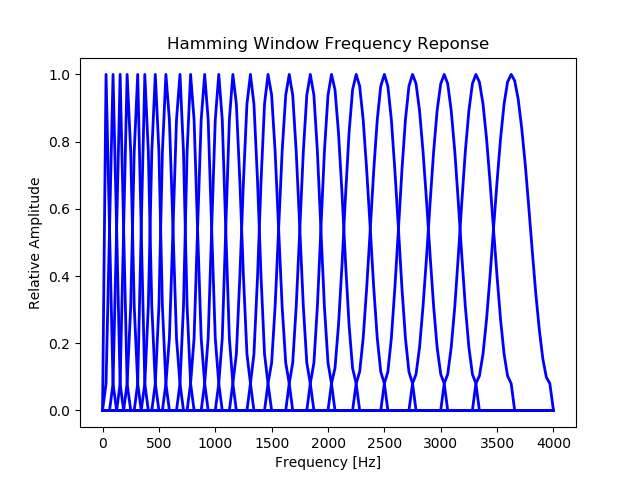
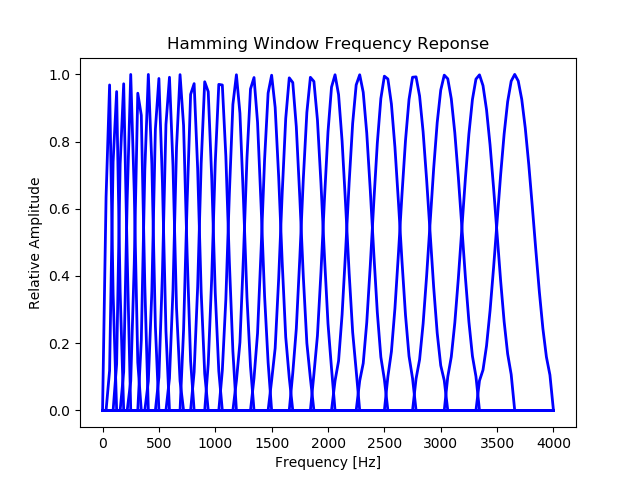
Add MFCC

Changed region(s): [[0.1562, 0.1562, 0.875, 0.875], [0.0625, 0.5625, 0.125, 0.5938]]

diff --git a/Chapter3_OtherTransformDomain/mfcc.py b/Chapter3_OtherTransformDomain/mfcc.py
@@ -1,0 +1,125 @@
+# mfcc function
+# 提取MFCC参数
+
+from Universal import *
+from scipy.signal import *
+import matplotlib.pylab as plt
+import numpy as np
+import math
+import seaborn as sns
+
+
+
+def melbankm(p, n, fs, fl = 0, fh = 0.5, w = 't'):
+	"""
+	再Mel频率上设计平均分布的滤波器
+	:param p: fl和fh之间设计的Mel滤波器的个数
+	:param n: FFT长度
+	:param fs: 采样频率
+	:param fl: 设计滤波器的最低频率（用fs归一化，一般取0）
+	:param fh: 设计滤波器的最高频率（用fs归一化，一般取0.5）
+	:param w: 窗函数，'t'=triangle，'n'=hanning， 'm'=hanmming
+	:return bank: 滤波器频率响应，size = p x (n/2 + 1), 只取正频率部分
+	"""
+	bl = 1125 * np.log(1 + fl * fs / 700)
+	bh = 1125 * np.log(1 + fh * fs / 700) # Hz -> Mel
+	B = bh - bl  						  # Mel Bandwidth
+	y = np.linspace(0, B, p + 2)  		  # uniformed Mel
+	Fb = 700 * (np.exp(y / 1125) - 1)     # Mel -> Hz
+	W = int(n / 2 + 1)
+	df = fs / n
+	# freq = [i * df for i in range(W)]  # sample frequency
+	bank = np.zeros((p, W))
+
+	for m in range(1, p + 1):
+		f0, f1, f2 = Fb[m], Fb[m - 1], Fb[m + 1]	# m, (m-1), (m+1) centeral frequency
+		n0 = f0 / df						# frequency -> sampling point
+		n1 = f1 / df
+		n2 = f2 / df
+		for k in range(W):
+			if (n1 < k <= n0) & (w == 't') :
+				bank[m - 1, k] = (k - n1) / (n0 - n1)
+			elif (n1 < k <= n0) & (w == 'n'):
+				bank[m - 1, k] = 0.5 - 0.5 * np.cos((k - n1) / (n0 - n1) * math.pi)
+			elif (n1 < k <= n0) & (w == 'm'):
+				bank[m - 1, k] = 25 / 46 -  21 / 46 * np.cos((k - n1) / (n0 - n1) * math.pi)
+			elif (n0 < k <= n2) & (w == 't') :
+				bank[m - 1, k]= (n2 - k) / (n2 - n0)
+			elif (n0 < k <= n2) & (w == 'n') :
+				bank[m - 1, k] = 0.5 - 0.5 * np.cos((n2 - k) / (n2 - n0) * math.pi)
+			elif (n0 < k <= n2) & (w == 'm') :
+				bank[m - 1, k] = 25 / 46 -  21 / 46 * np.cos((n2 - k) / (n2 - n0) * math.pi)
+
+	return bank
+def mfcc(x, fs, p, frameSize, inc):
+	"""
+	提取MFCC参数
+	:param x: discrete speech signal
+	:param fs: sampling frequency
+	:param p: filter number
+	:param frameSize: frame length = FFT length
+	:param inc: frame shift
+	:return ccc: mfcc
+	"""
+	bank = melbankm(p, frameSize, fs, 0, 0.5, 't')
+
+	# DCT coefficient
+	dctcoef = np.zeros((12, p))
+	for k in range(12):
+		for n in range(p):
+			dctcoef[k, n] = np.cos((2 * n + 1) * (k + 1) * math.pi / (2 * p))
+
+	# ceps improvement window
+	w = np.zeros((1, 12))
+	for k in range(12):
+		w[:, k] = 1 + 6 * np.sin(math.pi * (k + 1) / 12)
+	w = w / np.max(w)
+
+	# pre-emphasis, enframe
+	xx = lfilter([1, -0.9375], [1], x)
+	xx = Speech.enframe(xx, frameSize, inc)
+	n2 = int(np.fix(frameSize / 2))
+
+	# calculate MFCC
+	m = np.zeros((np.shape(xx)[0], 12))
+	for i in range(np.shape(xx)[0]):
+		y = xx[i, :]
+		s = y.T * np.hamming(frameSize)
+		t = np.abs(np.fft.fft(s)) ** 2
+		c1 = np.dot(dctcoef, np.log(np.dot(bank, t[0: n2 + 1])))
+		c2 = c1 * w
+		m[i, :] = c2
+
+	dtm = np.zeros((np.shape(m)))
+	for i in range(2, (np.shape(m)[0] - 2)):
+		dtm[i, :] = -2 * m[i - 2, :] - m[i - 1, :] + m[i + 1, :] + 2 * m[i + 2, :]
+
+	dtm = dtm / 3
+
+	ccc = np.concatenate((m, dtm), axis=1)
+
+	ccc = ccc[2 : np.shape(m)[0]-2, :]
+
+	return ccc
+
+if __name__ == '__main__':
+	p = 24
+	frameSize = 256
+	inc = 80
+	Speech =  Speech("s1.wav")
+	x, Fs =Speech.audioread(8000)
+	x = x / np.max(np.abs(x))
+
+	c = mfcc(x, Fs, p, frameSize, inc)
+	# plt.figure(figsize=(18, 10))
+	# plt.imshow(c, cmap = 'jet')
+	# plt.xticks(np.arange(0, 24, step=1))
+	# plt.yticks(np.arange(0, 18, step=1))
+	# plt.colorbar()
+	ax = sns.heatmap(c, linewidth=0.5)
+	plt.title('MFCC')
+	plt.savefig('images/mfcc.png')
+	plt.show()
+
+
+

diff --git a/Chapter3_OtherTransformDomain/pr3_3_1.py b/Chapter3_OtherTransformDomain/pr3_3_1.py
@@ -16,34 +16,34 @@ def melbankm(p, n, fs, fl = 0, fh = 0.5, w = 't'):
 	:param w: 窗函数，'t'=triangle，'n'=hanning， 'm'=hanmming
 	:return bank: 滤波器频率响应，size = p x (n/2 + 1), 只取正频率部分
 	"""
-	bl = 1125 * np.log(1 + fl * fs / 700)	# Hz -> Mel
-	bh = 1125 * np.log(1 + fh * fs / 700)
-	B = bh - bl		# Mel Bandwidth
-	y = np.linspace(0, B, p + 2)		# Equally spaced Mel freq
-	Fb = 700 * (np.exp(y / 1125) - 1)		# Mel -> Hz
-	W = int(n/2 + 1)					# positive frequency
-	df = fs / n							# frequency resolution
+	bl = 1125 * np.log(1 + fl * fs / 700)
+	bh = 1125 * np.log(1 + fh * fs / 700) # Hz -> Mel
+	B = bh - bl  						  # Mel Bandwidth
+	y = np.linspace(0, B, p + 2)  		  # uniformed Mel
+	Fb = 700 * (np.exp(y / 1125) - 1)     # Mel -> Hz
+	W = int(n / 2 + 1)
+	df = fs / n
+	# freq = [i * df for i in range(W)]  # sample frequency
 	bank = np.zeros((p, W))
-	for k in range(1, p + 1):
-		f0, f1, f2 = Fb[k], Fb[k - 1], Fb[k + 1]	# m, (m-1), (m+1) centeral frequency
-		n0 = np.floor(f0 / df)						# frequency -> sampling point
-		n1 = np.floor(f1 / df)
-		n2 = np.floor(f2 / df)
-		for i in range(1, W):
-			if (n1 <= i <= n0) & (w == 't') :
-				bank[k - 1, i] = (i - n1) / (n0 - n1)
-			elif (n1 <= i <= n0) & (w == 'n'):
-				bank[k - 1, i] = 0.5 - 0.5 * np.cos((i - n1) / (n0 - n1) * math.pi)
-			elif (n1 <= i <= n0) & (w == 'm'):
-				bank[k - 1, i] = 0.54 - 0.46 * np.cos((i - n1) / (n0 - n1) * math.pi)
-			elif (n0 <= i <= n2) & (w == 't') :
-				bank[k - 1, i]= (n2 - i) / (n2 - n0)
-			elif (n0 <= i <= n2) & (w == 'n') :
-				bank[k - 1, i] = 0.5 - 0.5 * np.cos((n2 - i) / (n2 - n0) * math.pi)
-			elif (n0 <= i <= n2) & (w == 'm') :
-				bank[k - 1, i] = 0.54 - 0.46 * np.cos((n2 - i) / (n2 - n0) * math.pi)
-			elif i > n2:
-				break
+
+	for m in range(1, p + 1):
+		f0, f1, f2 = Fb[m], Fb[m - 1], Fb[m + 1]	# m, (m-1), (m+1) centeral frequency
+		n0 = f0 / df						# frequency -> sampling point
+		n1 = f1 / df
+		n2 = f2 / df
+		for k in range(W):
+			if (n1 < k <= n0) & (w == 't') :
+				bank[m - 1, k] = (k - n1) / (n0 - n1)
+			elif (n1 < k <= n0) & (w == 'n'):
+				bank[m - 1, k] = 0.5 - 0.5 * np.cos((k - n1) / (n0 - n1) * math.pi)
+			elif (n1 < k <= n0) & (w == 'm'):
+				bank[m - 1, k] = 25 / 46 -  21 / 46 * np.cos((k - n1) / (n0 - n1) * math.pi)
+			elif (n0 < k <= n2) & (w == 't') :
+				bank[m - 1, k]= (n2 - k) / (n2 - n0)
+			elif (n0 < k <= n2) & (w == 'n') :
+				bank[m - 1, k] = 0.5 - 0.5 * np.cos((n2 - k) / (n2 - n0) * math.pi)
+			elif (n0 < k <= n2) & (w == 'm') :
+				bank[m - 1, k] = 25 / 46 -  21 / 46 * np.cos((n2 - k) / (n2 - n0) * math.pi)
 
 	return bank
 
@@ -51,13 +51,19 @@ if __name__ == '__main__':
 	p = 24
 	n = 256
 	fs = 8000
-	Ps = int(n / 2 + 1)
 	w = 't'
+	fl = 0
+	fh = 0.5
+	W = int(n / 2 + 1)
+	df = fs / n
+	freq = [i * df for i in range(W)]  # sample frequency
+
 	h1 = melbankm(p, n, fs, 0, 0.5, w)
-	freq = [int(i * fs / n) for i in range(Ps)]
+	h1 = h1 / np.max(h1)
 	plt.figure()
 	for k in range(1, p + 1):
 		plt.plot(freq, h1[k - 1, :],  'r', linewidth = 2)
+	plt.grid()
 	plt.xlabel('Frequency [Hz]')
 	plt.ylabel('Relative Amplitude')
 	plt.title('Triangle Window Frequency Reponse')
@@ -66,7 +72,6 @@ if __name__ == '__main__':
 
 	w = 'n'
 	h2 = melbankm(p, n, fs, 0, 0.5, w)
-	freq = [int(i * fs / n) for i in range(Ps)]
 	plt.figure()
 	for k in range(1, p + 1):
 		plt.plot(freq, h2[k - 1, :],  'k', linewidth = 2)
@@ -78,7 +83,6 @@ if __name__ == '__main__':
 
 	w = 'm'
 	h3 = melbankm(p, n, fs, 0, 0.5, w)
-	freq = [int(i * fs / n) for i in range(Ps)]
 	plt.figure()
 	for k in range(1, p + 1):
 		plt.plot(freq, h3[k - 1, :],  'b', linewidth = 2)

diff --git a/Chapter3_OtherTransformDomain/pr3_1_1.py b/Chapter3_OtherTransformDomain/pr3_1_1.py
@@ -1,5 +1,6 @@
 # 同态滤波解卷
 
+
 import matplotlib.pyplot as plt
 import numpy as np
 
@@ -72,7 +73,7 @@ if __name__ == '__main__':
 	fig = plt.figure(figsize=(15, 18))
 	plt.subplot(2, 1, 1)
 	plt.plot(freq[0 : int(N/2)], lceps[0 : int(N/2)], label = 'Log Spectrum')
-	plt.plot(freq[0 : int(N/2)], ST[0 : int(N/2)], linewidth = 3 ,label = 'Sound Track Impluse Response Spectrum')
+	plt.plot(freq[0 : int(N/2)], ST[0 : int(N/2)], linewidth = 4 ,label = 'Sound Track Impluse Response Spectrum')
 	plt.legend(loc = 'upper right')
 	plt.ylim([-4, 5])
 	plt.grid()

diff --git a/Chapter2_TimeFrequency_ShortTime/pr2_4_1.py b/Chapter2_TimeFrequency_ShortTime/pr2_4_1.py
@@ -1,7 +1,6 @@
 # Spectrogram 语谱图
 
 from Universal import *
-from enframe import enframe
 import matplotlib.pyplot as plt
 import numpy as np
 

diff --git a/Chapter3_OtherTransformDomain/Universal.py b/Chapter3_OtherTransformDomain/Universal.py
@@ -89,3 +89,5 @@ class Speech:
 
 
 
+
+
